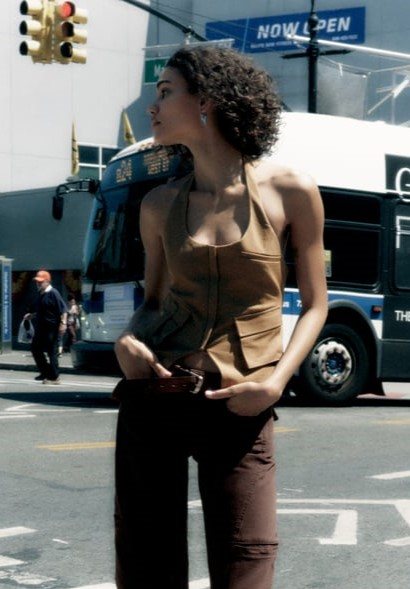
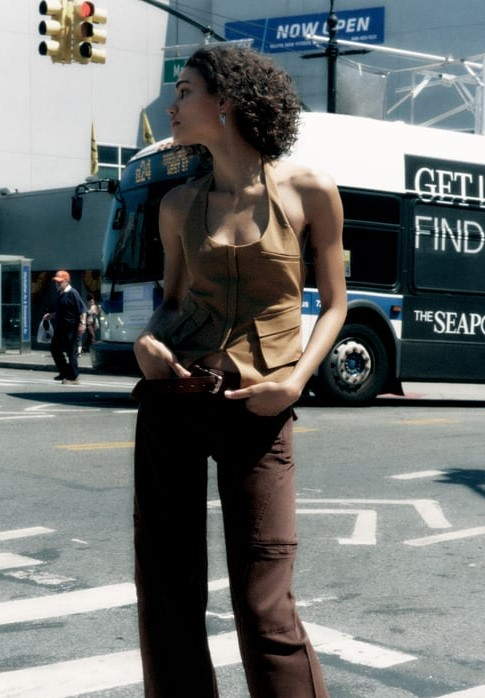
Cleaned up code and resized images
Some of the aspect ratios of the womans section were wrong and have now been fixed.
Removed all of the client side console.logs used for previous debugging

diff --git a/Backend/routes/clotheRoutes.js b/Backend/routes/clotheRoutes.js
@@ -1,6 +1,6 @@
 import express from "express";
 import { Item } from '../models/clothingItem.js'
-import { ItemWomen } from "../models/clothingItemWomen.js";
+
 
 const router = express.Router()
 
@@ -43,112 +43,6 @@ router.get('/', async (request, response) => {
             count: items.length,
             data: items
         });
-    } catch (error) {
-        console.log(error.message);
-        response.status(500).send({ message: error.message})
-    }
-})
-
-router.post('/women', async (request, response) => {
-    try {
-        if (
-            !request.body.title ||
-            !request.body.brand ||
-            !request.body.image ||
-            !request.body.clothingType ||
-            !request.body.itemLink
-        ) {
-            return response.status(400).send({
-                message: 'Send all required fields: title, brand, image (the name), clothingType, link'
-            });
-        }
-        const newClothingItem = {
-            title: request.body.title,
-            brand: request.body.brand,
-            image: request.body.image,
-            clothingType: request.body.clothingType,
-            itemLink: request.body.itemLink
-        };
-
-        const clothingPiece = await ItemWomen.create(newClothingItem);
-
-        return response.status(201).send(clothingPiece);
-    }   catch (error) {
-        console.log(error.message);
-        response.status(500).send({message: error.message})
-    }
-});
-
-router.get('/women', async (request, response) => {
-    try{
-        const items = await ItemWomen.find({});
-
-        return response.status(200).json({
-            count: items.length,
-            data: items
-        });
-    } catch (error) {
-        console.log(error.message);
-        response.status(500).send({ message: error.message})
-    }
-})
-
-router.get('/women/:id', async (request, response) => {
-    try{
-        const { id } = request.params;
-        console.log(id)
-
-        const item = await ItemWomen.findById(id);
-
-        return response.status(200).json({item
-        });
-    } catch (error) {
-        console.log(error.message);
-        response.status(500).send({ message: error.message})
-    }
-})
-
-router.delete("/women/:id", async (request, response) => {
-    try{
-        const { id } = request.params;
-
-        const result = await ItemWomen.findByIdAndDelete(id);
-
-        if (!result) {
-            return response.status(404).json({message: "Book not found"})
-        }
-
-        return response.status(200).send({ message: 'Book deleted successfuly'})
-
-    } catch (error) {
-        console.log(error.message);
-        response.status(500).send({ message: error.message});
-    }
-});
-
-router.put('/women/:id', async (request, response) => {
-    try{
-        if (
-            !request.body.title ||
-            !request.body.brand ||
-            !request.body.image ||
-            !request.body.clothingType ||
-            !request.body.itemLink
-        ) { 
-          return response.status(400).send({
-            message: 'Send all required fields: title, author, publishYear',
-          });  
-        }
-
-        const { id } = request.params;
-
-        const result = await Item.findByIdAndUpdate(id, request.body)
-        
-        if (!result) {
-            return response.status(404).json({message: "Book not found"})
-        }
-
-        return response.status(200).send({message: 'Book updated succesfuly'})
     } catch (error) {
         console.log(error.message);
         response.status(500).send({ message: error.message})

diff --git a/Frontend/src/pages/WomenDetails.jsx b/Frontend/src/pages/WomenDetails.jsx
@@ -34,7 +34,7 @@ const WomenDetails = () => {
     axios
       .get('http://localhost:5555/users')
       .then((response) => {
-        console.log(response.data); // Log the response data
+        
         setLoading(false)
         userName = response.data.userInfo.user
         // setLoggedInn(true);
@@ -54,7 +54,7 @@ const WomenDetails = () => {
     axios
       .get(`http://localhost:5555/clothing/${id}`)
       .then((response) => {
-        console.log('Response:', response.data.item);
+        
         setItem(response.data.item);
         setLoading(false);
 
@@ -72,8 +72,7 @@ const WomenDetails = () => {
       const fetchData = async () => {
         try {
           const response = await axios.get('http://localhost:5555/wishlist');
-          console.log(response.data.itemsList);
-          console.log(item.title);
+          
 
           // Check if any item in the wishlist has a title that matches, ignoring case and whitespaces
           const isInWishlist = response.data.itemsList.some((wishlistItem) =>

diff --git a/Frontend/src/pages/MenDetails.jsx b/Frontend/src/pages/MenDetails.jsx
@@ -34,7 +34,7 @@ const MenDetails = () => {
     axios
       .get('http://localhost:5555/users')
       .then((response) => {
-        console.log(response.data); // Log the response data
+        
         setLoading(false)
         userName = response.data.userInfo.user
         // setLoggedInn(true);
@@ -54,7 +54,7 @@ const MenDetails = () => {
     axios
       .get(`http://localhost:5555/clothing/${id}`)
       .then((response) => {
-        console.log('Response:', response.data.item);
+        
         setItem(response.data.item);
         setLoading(false);
 
@@ -72,8 +72,7 @@ const MenDetails = () => {
       const fetchData = async () => {
         try {
           const response = await axios.get('http://localhost:5555/wishlist');
-          console.log(response.data.itemsList);
-          console.log(item.title);
+          
 
           // Check if any item in the wishlist has a title that matches, ignoring case and whitespaces
           const isInWishlist = response.data.itemsList.some((wishlistItem) =>

diff --git a/Backend/index.js b/Backend/index.js
@@ -122,14 +122,13 @@ app.put("/wishlist", async (request, response) => {
         //     { "itemsList": request.body.newItem }
         // );
         
-        console.log(request.body)
+        
         const result = await wishList.findOneAndUpdate(
             {"userName":userInfo.user}, 
             { $push: { itemsList: request.body.itemsList } },
             { new: true }
             )
-        console.log(req.session.userInfo.user)
-        console.log(request.body.userName)
+        
         
         response.send(result);
     } catch (e) {

diff --git a/Frontend/src/pages/Logout.jsx b/Frontend/src/pages/Logout.jsx
@@ -9,9 +9,9 @@ const Logout = () => {
     const fetchData = async () => {
       try {
         const username = 'logout'
-        const response = await axios.get('http://localhost:5555/clothing');
+        
         const res = await axios.post("http://localhost:5555/login", {username });
-        console.log(response.data);
+        
         // Redirect to home after processing the response
         navigate('/');
         

diff --git a/Frontend/src/pages/MenOuterwear.jsx b/Frontend/src/pages/MenOuterwear.jsx
@@ -46,7 +46,7 @@ const MenOuterwear = () => {
     axios
       .get('http://localhost:5555/clothing')
       .then((response) => {
-        console.log(response.data); // Log the response data
+        
         setItems(response.data.data);
         setLoading(false);
       })

diff --git a/Frontend/src/pages/WomenOuterwear.jsx b/Frontend/src/pages/WomenOuterwear.jsx
@@ -46,7 +46,7 @@ const WomenOuterwear = () => {
     axios
       .get('http://localhost:5555/clothing')
       .then((response) => {
-        console.log(response.data); // Log the response data
+        
         setItems(response.data.data)
         setLoading(false)
       })

diff --git a/Frontend/src/pages/MenBottoms.jsx b/Frontend/src/pages/MenBottoms.jsx
@@ -46,7 +46,7 @@ const MenBottoms = () => {
     axios
       .get('http://localhost:5555/clothing')
       .then((response) => {
-        console.log(response.data); // Log the response data
+        
         setItems(response.data.data);
         setLoading(false);
       })

diff --git a/Frontend/src/pages/WomenBottoms.jsx b/Frontend/src/pages/WomenBottoms.jsx
@@ -46,7 +46,7 @@ const WomenBottoms = () => {
     axios
       .get('http://localhost:5555/clothing')
       .then((response) => {
-        console.log(response.data); // Log the response data
+        
         setItems(response.data.data)
         setLoading(false)
       })

diff --git a/Frontend/src/pages/MenTops.jsx b/Frontend/src/pages/MenTops.jsx
@@ -46,7 +46,7 @@ const MenTops = () => {
     axios
       .get('http://localhost:5555/clothing')
       .then((response) => {
-        console.log(response.data); // Log the response data
+        
         setItems(response.data.data);
         setLoading(false);
       })

diff --git a/Frontend/src/pages/WomenTops.jsx b/Frontend/src/pages/WomenTops.jsx
@@ -46,7 +46,7 @@ const WomenTops = () => {
     axios
       .get('http://localhost:5555/clothing')
       .then((response) => {
-        console.log(response.data); // Log the response data
+        
         setItems(response.data.data)
         setLoading(false)
       })

diff --git a/Frontend/src/pages/WomenAll.jsx b/Frontend/src/pages/WomenAll.jsx
@@ -46,7 +46,7 @@ const Women = () => {
     axios
       .get('http://localhost:5555/clothing')
       .then((response) => {
-        console.log(response.data); // Log the response data
+        
         setItems(response.data.data)
         setLoading(false)
       })
